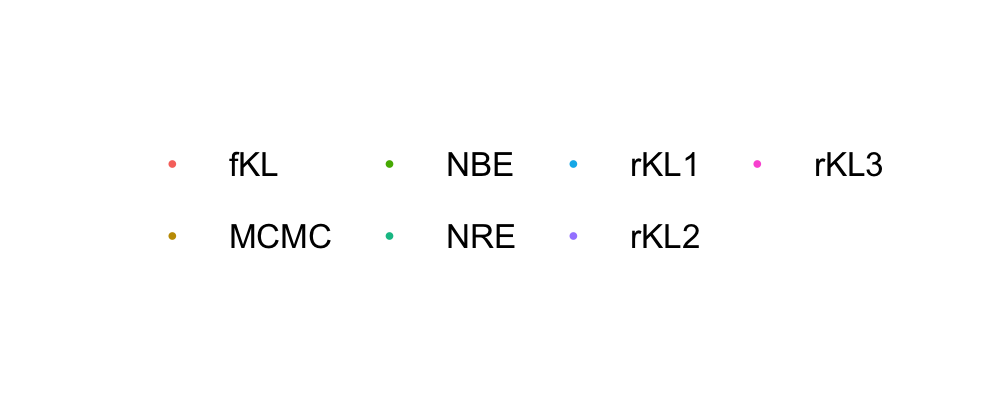
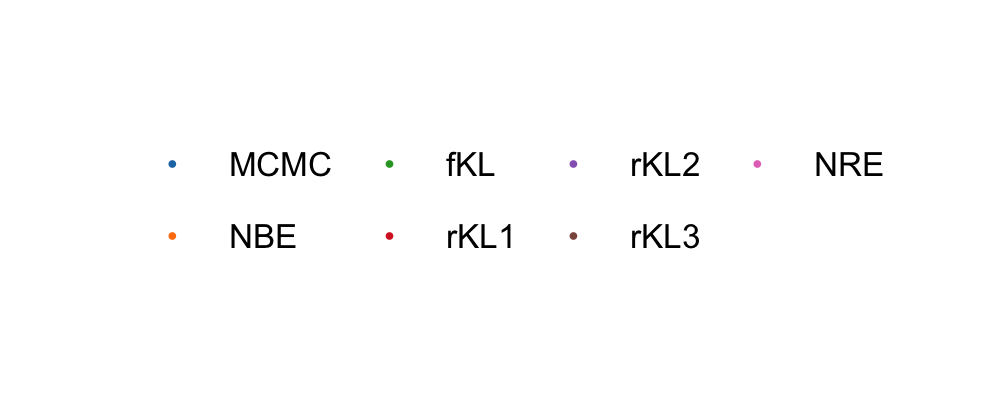
Make ordering of methods homogeneous (NBE after MCMC)

diff --git a/fig/results_table_standalone.tex b/fig/results_table_standalone.tex
@@ -1,8 +1,8 @@
 \documentclass[12pt]{article}
 \begin{document}
 \thispagestyle{empty}
-% latex table generated in R 4.2.2 by xtable 1.8-4 package
-% Wed Apr 10 16:06:43 2024
+% latex table generated in R 4.3.2 by xtable 1.8-4 package
+% Thu Apr 18 14:55:18 2024
 \begin{table}[ht]
 \centering
 \begin{tabular}{rlrrrrr}
@@ -10,12 +10,12 @@
  & Method & RMSPE & MAPE & MIS90 & COV90 & MCRPS \\ 
   \hline
 1 & MCMC & 0.015 & 0.015 & 0.095 & 0.896 & 0.014 \\ 
-  2 & fKL & 0.015 & 0.015 & 0.099 & 0.906 & 0.015 \\ 
-  3 & NBE & 0.016 & 0.016 & 0.106 & 0.877 &  \\ 
+  2 & NBE & 0.016 & 0.016 & 0.106 & 0.877 &  \\ 
+  3 & fKL & 0.015 & 0.015 & 0.099 & 0.906 & 0.015 \\ 
   4 & rKL1 & 0.016 & 0.016 & 0.098 & 0.777 & 0.014 \\ 
-  5 & NRE & 0.017 & 0.017 & 0.110 & 0.913 & 0.016 \\ 
+  5 & rKL2 & 0.019 & 0.019 & 0.114 & 0.871 & 0.016 \\ 
   6 & rKL3 & 0.018 & 0.018 & 0.091 & 0.816 & 0.014 \\ 
-  7 & rKL2 & 0.019 & 0.019 & 0.114 & 0.871 & 0.016 \\ 
+  7 & NRE & 0.017 & 0.017 & 0.110 & 0.913 & 0.016 \\ 
    \hline
 \end{tabular}
 \end{table}

diff --git a/fig/results_table.tex b/fig/results_table.tex
@@ -1,13 +1,13 @@
-% latex table generated in R 4.2.2 by xtable 1.8-4 package
-% Wed Apr 10 16:06:43 2024
+% latex table generated in R 4.3.2 by xtable 1.8-4 package
+% Thu Apr 18 14:55:18 2024
 Method & RMSPE & MAPE & MIS90 & COV90 & MCRPS \\ 
   \hline
 MCMC & 0.015 & 0.015 & 0.095 & 0.896 & 0.014 \\ 
-  fKL & 0.015 & 0.015 & 0.099 & 0.906 & 0.015 \\ 
   NBE & 0.016 & 0.016 & 0.106 & 0.877 &  \\ 
+  fKL & 0.015 & 0.015 & 0.099 & 0.906 & 0.015 \\ 
   rKL1 & 0.016 & 0.016 & 0.098 & 0.777 & 0.014 \\ 
-  NRE & 0.017 & 0.017 & 0.110 & 0.913 & 0.016 \\ 
-  rKL3 & 0.018 & 0.018 & 0.091 & 0.816 & 0.014 \\ 
   rKL2 & 0.019 & 0.019 & 0.114 & 0.871 & 0.016 \\ 
+  rKL3 & 0.018 & 0.018 & 0.091 & 0.816 & 0.014 \\ 
+  NRE & 0.017 & 0.017 & 0.110 & 0.913 & 0.016 \\ 
    \hline
 
